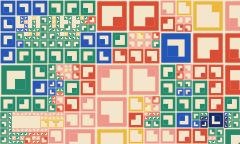
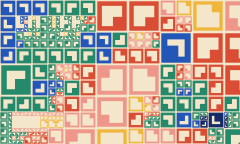
Remove hairline joins within adaptive tile chambers

diff --git a/src/studio/spatial-art.test.js b/src/studio/spatial-art.test.js
@@ -146,10 +146,10 @@ test.each([.52, .58, .64])("adaptive subdivision at detail %s uses solid, nonove
   r.tiles(out, () => [127, 127, 127, 255], () => c.fgColor, () => .5, c, size, size, 1, w, h, data);
   const xml = out.serialize();
   expect([...xml.matchAll(/opacity="([^"]+)"/g)].every(([, opacity]) => Number(opacity) === 1)).toBe(true);
-  // Each chamber has one full ink rectangle and one smaller corner square.
-  // Inspect the full rectangles to ensure a parent never overlaps its children.
+  // Each chamber has one full ink rectangle with a single notched cutout.
+  // Inspect those rectangles to ensure a parent never overlaps its children.
   const inks = [...xml.matchAll(/<rect x="([^"]+)" y="([^"]+)" width="([^"]+)" height="([^"]+)" fill="#ff0000"/g)];
-  const leaves = inks.filter((_, i) => i % 2 === 0).map(m => m.slice(1).map(Number));
+  const leaves = inks.map(m => m.slice(1).map(Number));
   expect(leaves.reduce((area, [, , width, height]) => area + width * height, 0)).toBe(size * size);
   for (let i = 0; i < leaves.length; i++) for (let j = i + 1; j < leaves.length; j++) {
     const [x, y, width, height] = leaves[i], [xx, yy, ww, hh] = leaves[j];

diff --git a/src/studio/spatial-art.js b/src/studio/spatial-art.js
@@ -128,10 +128,16 @@ export class SpatialRenderer {
       ctx.fillStyle = c.bgColor;
       if (motif === 0) {
         const border = s * (.08 + t * .15), hole = s - border * 2;
-        ctx.fillRect(xx + border, yy + border, hole, hole);
-        ctx.fillStyle = ink;
         const a = s * (.22 + .18 * t), corner = (depth + Math.floor(seed * 4)) % 4;
-        ctx.fillRect(xx + (corner % 2 ? s - border - a : border), yy + (corner > 1 ? s - border - a : border), a, a);
+        // One notched cutout leaves the corner joined to its frame. Drawing a
+        // separate insert over an antialiased hole left a hairline at the join.
+        ctx.beginPath();
+        [[a, 0], [hole, 0], [hole, hole], [0, hole], [0, a], [a, a]].forEach(([u, v], i) => {
+          const px = xx + border + (corner % 2 ? hole - u : u);
+          const py = yy + border + (corner > 1 ? hole - v : v);
+          i ? ctx.lineTo(px, py) : ctx.moveTo(px, py);
+        });
+        ctx.closePath(); ctx.fill();
       } else if (motif === 1) {
         const bars = 3, band = s / (bars * 2 + 1), vertical = seed < .5;
         for (let i = 0; i < bars; i++) {
